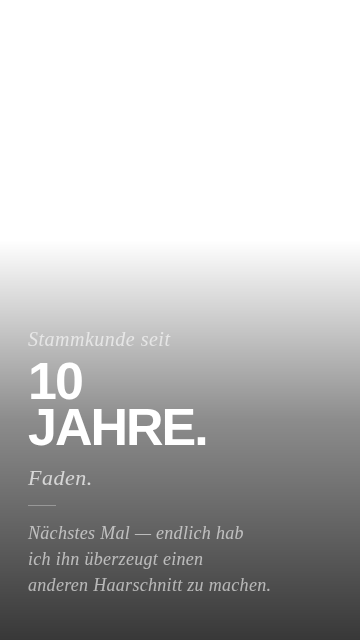
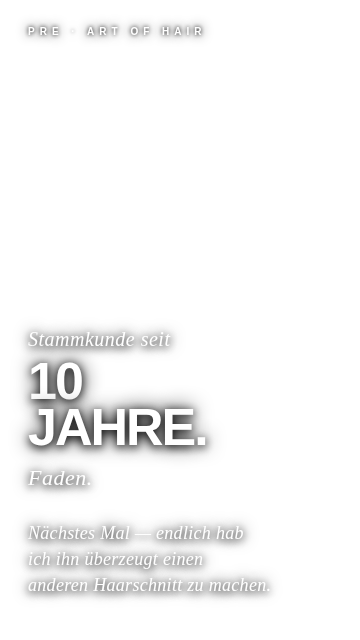
Both stories: fully transparent, text-only overlays (no gradient)
https://claude.ai/code/session_01BaC8m9wAmbtKccXQSCmnYc

diff --git a/story-10jahre.html b/story-10jahre.html
@@ -12,27 +12,15 @@
       overflow: hidden;
     }
 
-    /* Gradient unten — Text lesbar über jedem Video */
-    .gradient {
-      position: absolute;
-      left: 0; right: 0; bottom: 0;
-      height: 400px;
-      background: linear-gradient(to top,
-        rgba(0,0,0,0.78) 0%,
-        rgba(0,0,0,0.45) 55%,
-        transparent 100%);
-    }
-
-    /* PRE Logo oben links */
     .logo {
       position: absolute;
       top: 26px; left: 28px;
       font-weight: 700; font-size: 10px;
       letter-spacing: 5px; text-transform: uppercase;
-      color: rgba(255,255,255,0.45);
+      color: #fff;
+      text-shadow: 0 0 12px rgba(0,0,0,1), 0 0 4px rgba(0,0,0,1);
     }
 
-    /* Text Block unten */
     .text-block {
       position: absolute;
       bottom: 42px; left: 28px; right: 28px;
@@ -42,9 +30,10 @@
       font-family: 'Cormorant Garamond', serif;
       font-style: italic; font-weight: 300;
       font-size: 20px;
-      color: rgba(255,255,255,0.6);
+      color: #fff;
       letter-spacing: 0.5px;
       margin-bottom: 8px;
+      text-shadow: 0 0 16px rgba(0,0,0,1), 0 2px 8px rgba(0,0,0,1);
     }
 
     .main {
@@ -55,20 +44,22 @@
       color: #fff;
       text-transform: uppercase;
       margin-bottom: 14px;
+      text-shadow: 0 0 20px rgba(0,0,0,1), 0 2px 10px rgba(0,0,0,1);
     }
 
     .faden {
       font-family: 'Cormorant Garamond', serif;
       font-style: italic; font-weight: 400;
       font-size: 22px;
-      color: rgba(255,255,255,0.7);
+      color: #fff;
       letter-spacing: 0.5px;
       margin-bottom: 14px;
+      text-shadow: 0 0 16px rgba(0,0,0,1), 0 2px 8px rgba(0,0,0,1);
     }
 
     .divider {
       width: 28px; height: 1px;
-      background: rgba(255,255,255,0.3);
+      background: rgba(255,255,255,0.8);
       margin-bottom: 14px;
     }
 
@@ -76,14 +67,14 @@
       font-family: 'Cormorant Garamond', serif;
       font-style: italic; font-weight: 300;
       font-size: 18px;
-      color: rgba(255,255,255,0.6);
+      color: #fff;
       letter-spacing: 0.3px;
       line-height: 1.45;
+      text-shadow: 0 0 16px rgba(0,0,0,1), 0 2px 8px rgba(0,0,0,1);
     }
   </style>
 </head>
 <body>
-  <div class="gradient"></div>
   <div class="logo">PRE · Art of Hair</div>
   <div class="text-block">
     <div class="tag">Stammkunde seit</div>

diff --git a/story-look-girl.html b/story-look-girl.html
@@ -12,22 +12,13 @@
       overflow: hidden;
     }
 
-    .gradient {
-      position: absolute;
-      left: 0; right: 0; bottom: 0;
-      height: 380px;
-      background: linear-gradient(to top,
-        rgba(0,0,0,0.78) 0%,
-        rgba(0,0,0,0.42) 55%,
-        transparent 100%);
-    }
-
     .logo {
       position: absolute;
       top: 26px; left: 28px;
       font-weight: 700; font-size: 10px;
       letter-spacing: 5px; text-transform: uppercase;
-      color: rgba(255,255,255,0.45);
+      color: #fff;
+      text-shadow: 0 0 12px rgba(0,0,0,1), 0 0 4px rgba(0,0,0,1);
     }
 
     .text-block {
@@ -39,9 +30,10 @@
       font-family: 'Cormorant Garamond', serif;
       font-style: italic; font-weight: 300;
       font-size: 22px;
-      color: rgba(255,255,255,0.7);
+      color: #fff;
       letter-spacing: 1px;
       margin-bottom: 10px;
+      text-shadow: 0 0 16px rgba(0,0,0,1), 0 2px 8px rgba(0,0,0,1);
     }
 
     .main {
@@ -52,20 +44,21 @@
       color: #fff;
       text-transform: uppercase;
       margin-bottom: 14px;
+      text-shadow: 0 0 20px rgba(0,0,0,1), 0 2px 10px rgba(0,0,0,1);
     }
 
     .accent {
       font-family: 'Cormorant Garamond', serif;
       font-style: italic; font-weight: 400;
       font-size: 20px;
-      color: rgba(255,255,255,0.65);
+      color: #fff;
       letter-spacing: 0.5px;
       line-height: 1.45;
+      text-shadow: 0 0 16px rgba(0,0,0,1), 0 2px 8px rgba(0,0,0,1);
     }
   </style>
 </head>
 <body>
-  <div class="gradient"></div>
   <div class="logo">PRE · Art of Hair</div>
   <div class="text-block">
     <div class="greeting">Look at this girl —</div>
